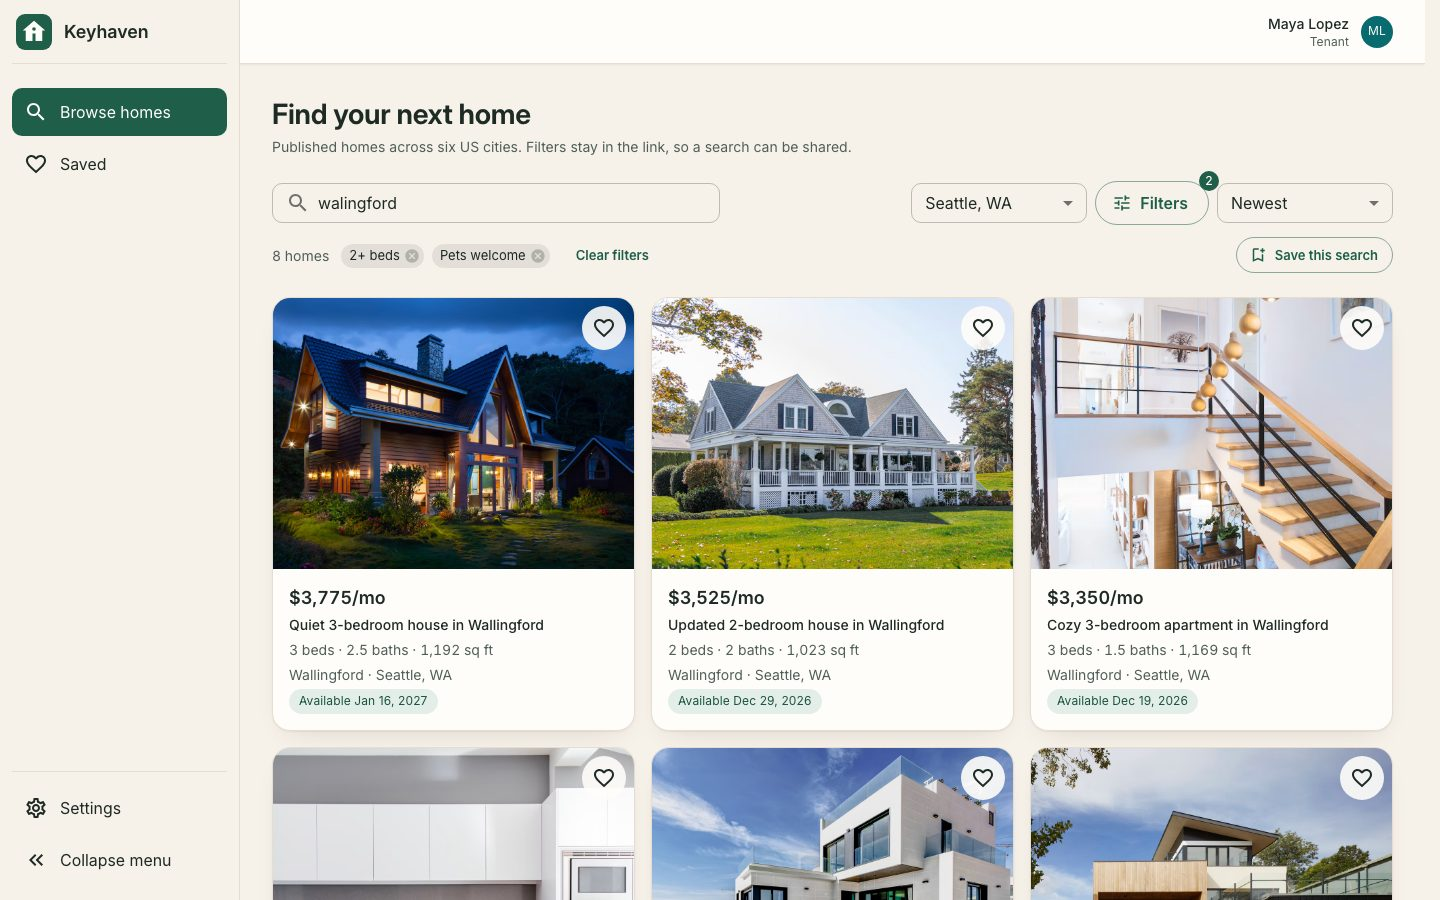
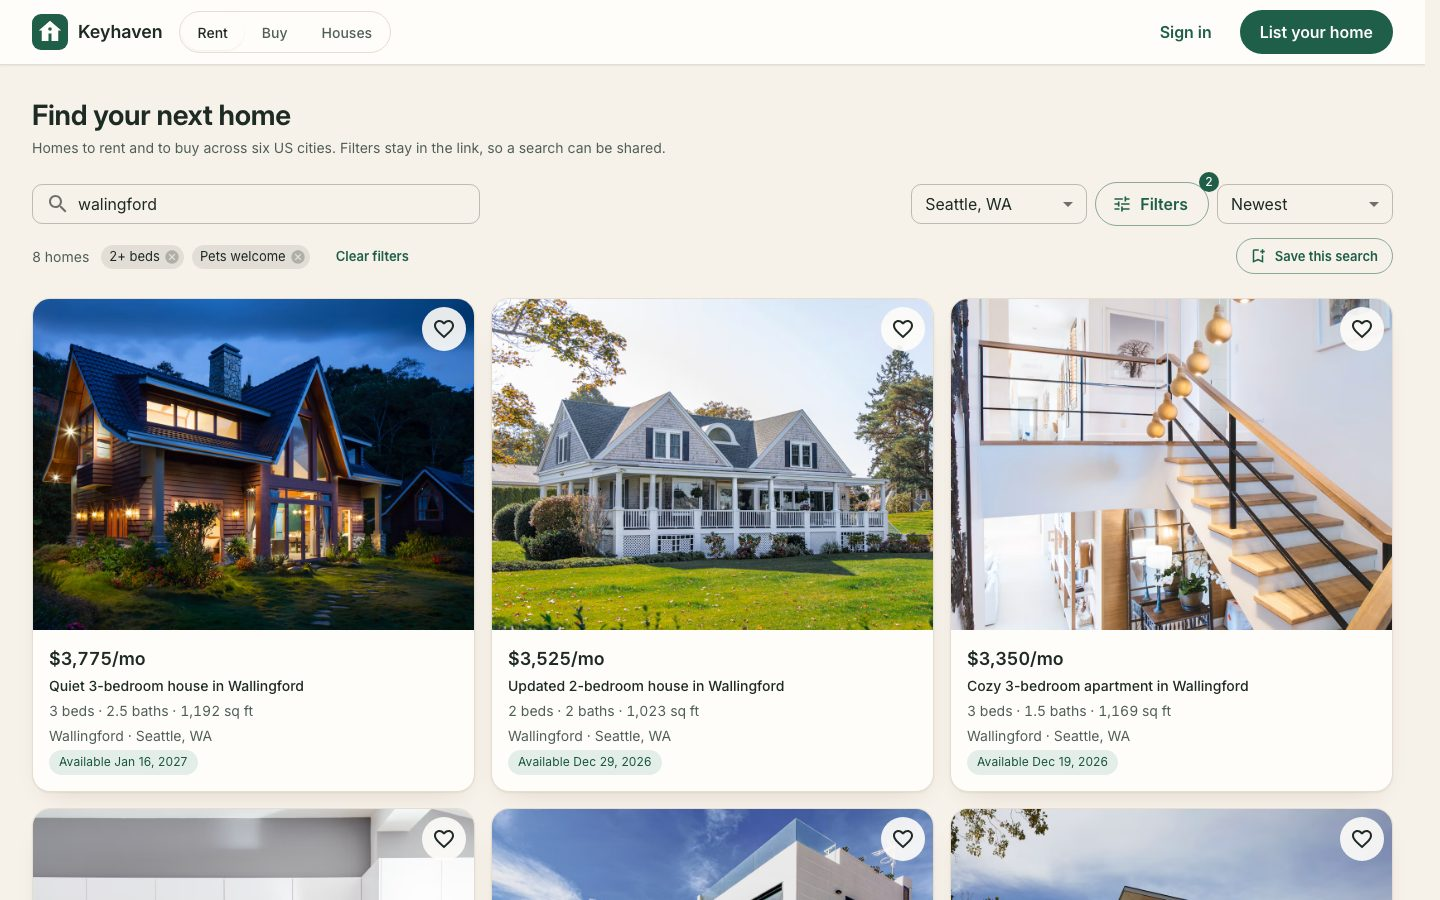
docs: public catalogue, homes for sale and the landing page

diff --git a/README.md b/README.md
@@ -2,8 +2,8 @@
 
 # Keyhaven
 
-**Long-term rentals, done properly** — tenants find a home and book a viewing; landlords and
-agents manage listings and viewings; Keyhaven admins keep the site clean.
+**Homes to rent and to buy, done properly** — anyone browses the catalogue, tenants save homes and
+book viewings; landlords and agents manage listings; Keyhaven admins keep the site clean.
 
 ![Node.js](https://img.shields.io/badge/Node.js-26-5FA04E?logo=nodedotjs&logoColor=white)
 ![TypeScript](https://img.shields.io/badge/TypeScript-strict-3178C6?logo=typescript&logoColor=white)
@@ -14,7 +14,9 @@ agents manage listings and viewings; Keyhaven admins keep the site clean.
 
 A public demo product · US market · English UI · fictional data only
 
-![Keyhaven — Browse homes: a search box, the city, a Filters button with the number of active filters and the sort in one row; the active filters as removable chips; saved homes marked with a heart and a "Save this search" button over a grid of listing cards](docs/browse.jpg)
+![Keyhaven — the landing page at a signed-out /: the brand, Rent, Buy and Houses tabs, a headline, a search box with a Rent / Buy switch and the six cities](docs/landing.jpg)
+
+![Keyhaven — the public catalogue: a header with Rent, Buy and Houses tabs, a search box, the city, a Filters button and the sort in one row; the active filters as removable chips; a grid of listing cards with a heart on each](docs/browse.jpg)
 
 [Quick start](#quick-start) · [Demo accounts](#demo-accounts) · [What works today](#what-works-today-m0--m1) ·
 [Architecture](#architecture) · [Development](#development) · [Roadmap](#roadmap)
@@ -25,8 +27,8 @@ A public demo product · US market · English UI · fictional data only
 
 ## Quick start
 
-Two ways to run it. Both end at a seeded database with ~1,000 listings, four demo accounts and an
-S3-compatible photo store (RustFS in Docker) for uploads.
+Two ways to run it. Both end at a seeded database with ~1,300 listings (1,000 for rent, 300 for
+sale), four demo accounts and an S3-compatible photo store (RustFS in Docker) for uploads.
 
 ### A. Your own PostgreSQL 18 (one command)
 
@@ -44,7 +46,9 @@ make setup   # starts the photo store, installs both packages, applies the migra
 make dev     # backend on :3000, frontend on :5180 — Ctrl-C stops both
 ```
 
-Then open **http://localhost:5180** and sign in with a [demo account](#demo-accounts).
+Then open **http://localhost:5180** — the catalogue needs no account; sign in with a
+[demo account](#demo-accounts) to save homes or to manage listings. The public landing page
+(`landing/`, Astro) runs separately with `make landing` on **http://localhost:4321**.
 
 `make setup` copies `backend/.env.example` to `backend/.env` (git-ignored) — edit `DATABASE_URL`
 there if your server, role or password differ. Emails (verification, password reset, the daily
@@ -63,48 +67,54 @@ docker compose up --build -d
 docker compose run --rm migrate npm run db:seed
 ```
 
-Then open **http://localhost:8080**. `docker compose logs backend` shows the emails; photos go to
-the bundled RustFS (`storage`, provisioned by `storage-init`). `docker compose down -v` deletes the
-data.
+Then open **http://localhost:8080**: the landing page for a visitor, the app once signed in (nginx
+picks by the session cookie — `frontend/nginx.conf`). `docker compose logs backend` shows the
+emails; photos go to the bundled RustFS (`storage`, provisioned by `storage-init`).
+`docker compose down -v` deletes the data.
 
 ## Demo accounts
 
-Every password is **`Keyhaven-Demo-2026!`** (all people and homes are fictional).
+Every password is **`Keyhaven-Demo-2026!`** (all people and homes are fictional). Browsing needs no
+account; a tenant account adds saved homes and searches.
 
 | Role | Account | Lands on |
 |---|---|---|
-| **Tenant** | `maya.lopez@keyhaven.example` | Browse homes — search with filters, save homes and searches |
-| **Landlord** | `daniel.reyes@keyhaven.example` | Their listings — create, edit, photos, publish / unpublish, views and saves |
+| **Tenant** | `maya.lopez@keyhaven.example` | The catalogue — save homes and searches, a daily email with new matches |
+| **Landlord** | `daniel.reyes@keyhaven.example` | Their listings — for rent or for sale: create, edit, photos, publish / unpublish, views and saves |
 | **Agent** (Harborline Realty) | `priya.nair@harborline.example` | The agency's listings — same dashboard, shared with the other agents |
 | **Admin** | `alex.morgan@keyhaven.example` | All listings — and the power to suspend one |
 
 Any visitor can create their own tenant or landlord account at `/signup`; the verification link is
 in the backend log (or your inbox with SMTP configured).
 
-## What works today (M0 + M1)
+## What works today (M0 + M1 + the public catalogue)
 
 - **Accounts:** sign-up (tenant or landlord), email verification, sign-in, forgot / reset password,
   password change, sessions ("sign out everywhere"), a security log — server-side sessions, no JWT.
 - **Roles, enforced on the server:** tenants browse; landlords manage their own listings; agents
   manage their agency's; admins see everything and can suspend a listing. A foreign listing answers
   403 (or 404 when the caller should not learn it exists) — see `backend/test/access.spec.ts`.
-- **Search:** ~1,000 seeded homes across Austin, Denver, Seattle, Chicago, Atlanta and Phoenix.
-  City, rent range, beds, baths, pets / furnished / parking, available-by date and a
+- **A public catalogue:** homes **for rent and for sale** across Austin, Denver, Seattle, Chicago,
+  Atlanta and Phoenix, open to anyone — the Rent, Buy and Houses tabs lead the search. City,
+  type of home, price range, beds, baths, pets / furnished / parking, move-in date and a
   **typo-tolerant text search** over title, neighborhood, ZIP and city (PostgreSQL `pg_trgm` word
   similarity: "Walingford" finds Wallingford); sort by newest or rent; everything in the URL, so a
   search is a link. The detailed filters live in a side sheet whose button already says how many
   homes they would show; active ones come back as removable chips. Listing page with gallery, facts and the landlord / agency card. **The exact
   address is hidden** until a viewing is confirmed (M2) — only the owner and admins see it today.
-- **Saved homes and saved searches:** a heart on every card; a search can be saved under a name
+- **Saved homes and saved searches** (a tenant account): a heart on every card and listing page —
+  a visitor who presses it is asked to sign in and comes back; a search can be saved under a name
   and, when alerts are on, a **daily email** (08:00 UTC) lists the homes published since the last
   one — at most ten, with a link to the full results. Both live under **Saved**.
 
   ![Saved searches: each one shows its filters as chips, when the last email went out, a switch for the daily email and a delete button](docs/saved.jpg)
 - **Dashboard (owner side):** counts per status, filters and search in the URL, **create and edit
-  listings**, **photo upload** straight from the browser to the object store (presigned URLs,
+  listings** for rent (monthly rent, move-in day) or for sale (asking price), **photo upload**
+  straight from the browser to the object store (presigned URLs,
   JPEG / PNG / WebP up to 10 MB, 20 per listing, reorder and remove, the first one is the cover),
   publish / unpublish (verified email and at least one photo required), admin suspension with a
-  confirmation, **views and saves** per listing.
+  confirmation, **views and saves** per listing — visitors without an account count too, once a
+  day each.
 
   ![A listing's management page: the photo manager with a cover badge, move and remove buttons, Edit details, the views and saves count](docs/manage.jpg)
 - **Operations:** one `docker compose up`, health endpoints, Prometheus metrics (admins), structured
@@ -112,27 +122,30 @@ in the backend log (or your inbox with SMTP configured).
 
 ### Search speed
 
-Measured on the full seed (1,000 listings, 827 published) with `npm run bench:search` in
+Measured on the full seed (1,300 listings, 1,063 published) with `npm run bench:search` in
 `backend/` — 30 runs per query against the running app over HTTP, one warm-up run, local
 PostgreSQL 18 on a laptop:
 
 | Query | Results | p50 | p95 | max |
 |---|---|---|---|---|
-| newest, no filters | 827 | 6.1 ms | 8.3 ms | 10.8 ms |
-| city + rent range | 43 | 5.5 ms | 6.8 ms | 7.5 ms |
-| city + beds + baths + amenities | 19 | 5.3 ms | 10.2 ms | 31.6 ms |
-| available by date, rent high to low | 486 | 8.1 ms | 9.0 ms | 10.1 ms |
-| text search, one typo | 17 | 10.8 ms | 19.9 ms | 20.9 ms |
-| text search, two terms + filters | 29 | 6.3 ms | 6.8 ms | 8.1 ms |
-| page 40 of newest | 827 | 3.8 ms | 4.6 ms | 6.0 ms |
+| newest, no filters | 827 | 7.5 ms | 15.6 ms | 17.3 ms |
+| city + rent range | 43 | 6.4 ms | 7.4 ms | 7.5 ms |
+| city + beds + baths + amenities | 19 | 5.6 ms | 7.3 ms | 10.7 ms |
+| available by date, rent high to low | 486 | 6.6 ms | 14.1 ms | 15.2 ms |
+| homes for sale, houses, price low to high | 25 | 4.7 ms | 5.6 ms | 6.0 ms |
+| text search, one typo | 17 | 10.2 ms | 15.8 ms | 23.7 ms |
+| text search, two terms + filters | 29 | 8.0 ms | 16.5 ms | 16.8 ms |
+| page 40 of newest | 827 | 3.4 ms | 4.4 ms | 5.0 ms |
 
 One SQL statement returns the page's ids and the total (`count(*) over ()`), Prisma loads the
-cards by id; partial indexes on the published rows (rent, published date, bedrooms, available
-date) and a trigram GIN index on the search text.
+cards by id; partial indexes on the published rows, each led by the kind (price, published date,
+bedrooms, move-in date, type of home) and a trigram GIN index on the search text.
 
 ## Architecture
 
 ```
+landing/    Astro static site — the public page at a signed-out `/`: SEO, share image, sitemap; links
+            into the catalogue (/browse) and sign-up; no client framework, no API calls
 frontend/   React 19 + TypeScript · Vite · MUI 9 + Tailwind 4 · TanStack Query · React Router ·
             React Hook Form + Zod · react-i18next · types and runtime response schemas generated
             from backend/openapi.json
@@ -145,7 +158,8 @@ backend/    NestJS 11 (Express) · Prisma 7 on PostgreSQL 18 · Zod 4 (validatio
   Controller → service → repository; only repositories touch Prisma; every query has an explicit
   `select`.
 - **Security by default:** every handler is `@Public()` or `@Authorize(policy)` — the app refuses
-  to start otherwise. Policies live in one file (`backend/src/common/security/policies.ts`); ownership
+  to start otherwise. The catalogue's policies are `public`-scoped: they run for a visitor too, a
+  session only adds "saved"; a visitor's views count by a daily hash, never an address in clear. Policies live in one file (`backend/src/common/security/policies.ts`); ownership
   checks in one service. Sessions are revocable rows; cookies are `HttpOnly` + `SameSite=Lax`.
 - **No tenant hierarchy:** Keyhaven is a marketplace — a listing belongs to a landlord *or* an
   agency (a database CHECK), and agents act for their agency.
@@ -176,13 +190,16 @@ npm run storage:init           # bucket, public-read policy and CORS on the phot
 
 cd frontend
 npm run dev                    # Vite on :5180, /api proxied to :3000 (same-origin cookies)
+
+cd landing
+npm run dev                    # Astro on :4321; npm run build = astro check + static output
 npm run generate:api           # after openapi.json changed
 npm run build                  # includes the bundle budget check
 ```
 
 **Pipeline** (backend): `format:check` → `lint` → `typecheck` → `build` → `db:check` →
 `i18n:check` → `openapi:check` → `test` → `audit`. (frontend): `lint` → `format:check` →
-`typecheck` → `build` → `i18n:check`.
+`typecheck` → `build` → `i18n:check`. (landing): `lint` → `format:check` → `build`.
 
 ### Environment variables (backend)
 
@@ -204,7 +221,8 @@ All of them, with local values, are in `backend/.env.example`.
 | Milestone | Scope |
 |---|---|
 | **M0 — Foundation** | Accounts, roles, seed, dashboards by role, access tests |
-| **M1 — Listings and search** (this release) | Search with filters, sorting and typo-tolerant text; saved listings and searches with daily emails; create / edit listings with photo upload; views and saves |
+| **M1 — Listings and search** | Search with filters, sorting and typo-tolerant text; saved listings and searches with daily emails; create / edit listings with photo upload; views and saves |
+| **Public catalogue** (this release) | Browsing without an account, homes for sale beside rentals, a landing page at a signed-out `/` |
 | **M2 — Viewing booking** | Weekly viewing hours and slots, booking without double booking (proved by a test), confirm / decline / cancel, reminders, calendars |
 
 Not planned for M0–M2: applications, payments, property management, map search, mobile apps.
